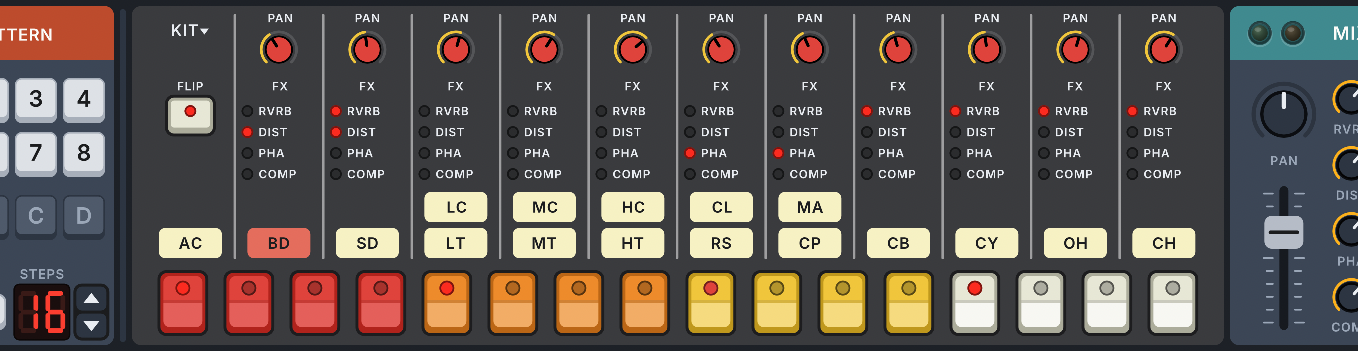
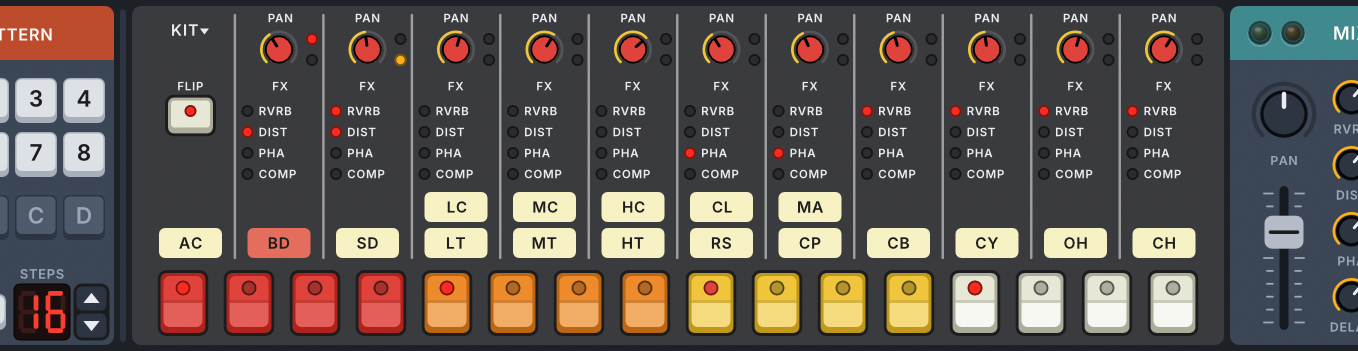
drum machines

diff --git a/orb-338x/index.html b/orb-338x/index.html
@@ -122,8 +122,8 @@
                     <div class="feature-image">
                         <img src="img/flip.png" alt="Drum Machine Flip">
                     </div>
-                    <h3>Drum Machine Flip</h3>
-                    <p>Press the Flip button to reveal a new panel where you can set pan for each drum as well as choose to which effect it is routed. Click on a drum's name to preview it.</p>
+                    <h3>Enhanced Drum Machines</h3>
+                    <p>Press the Flip button to reveal a new panel where you can set pan for each drum as well as choose to which effect it is routed. Mute and solo for individual drums. Click on a drum's name to preview it.</p>
                 </div>
 
                 <div class="feature-card">
